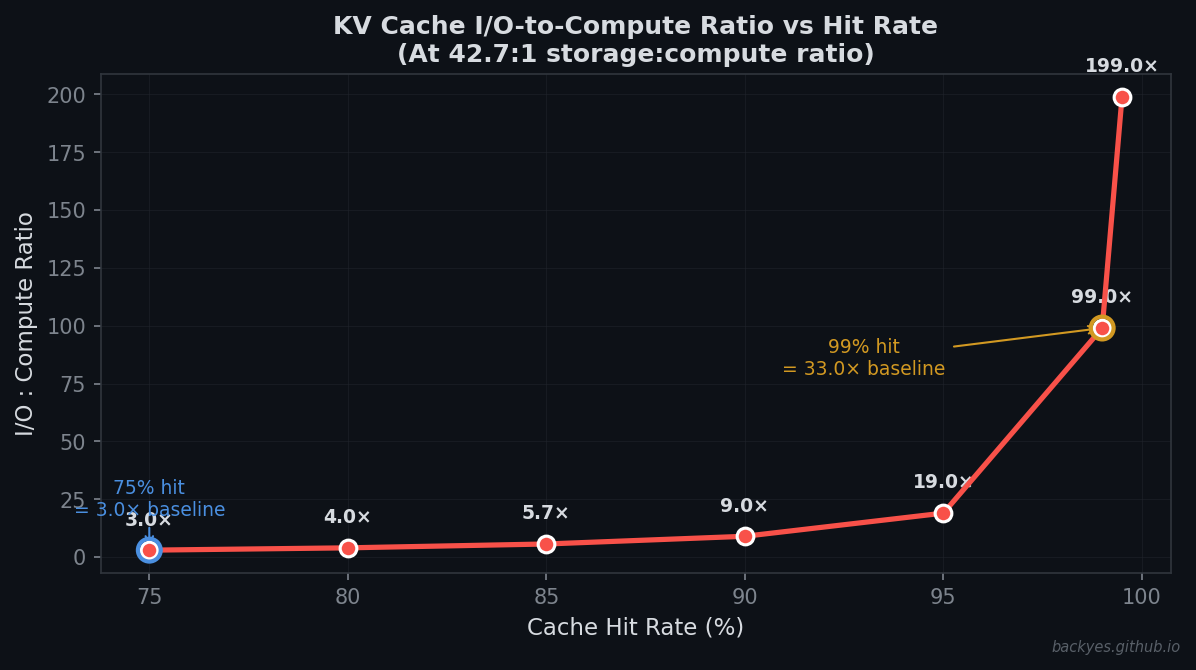
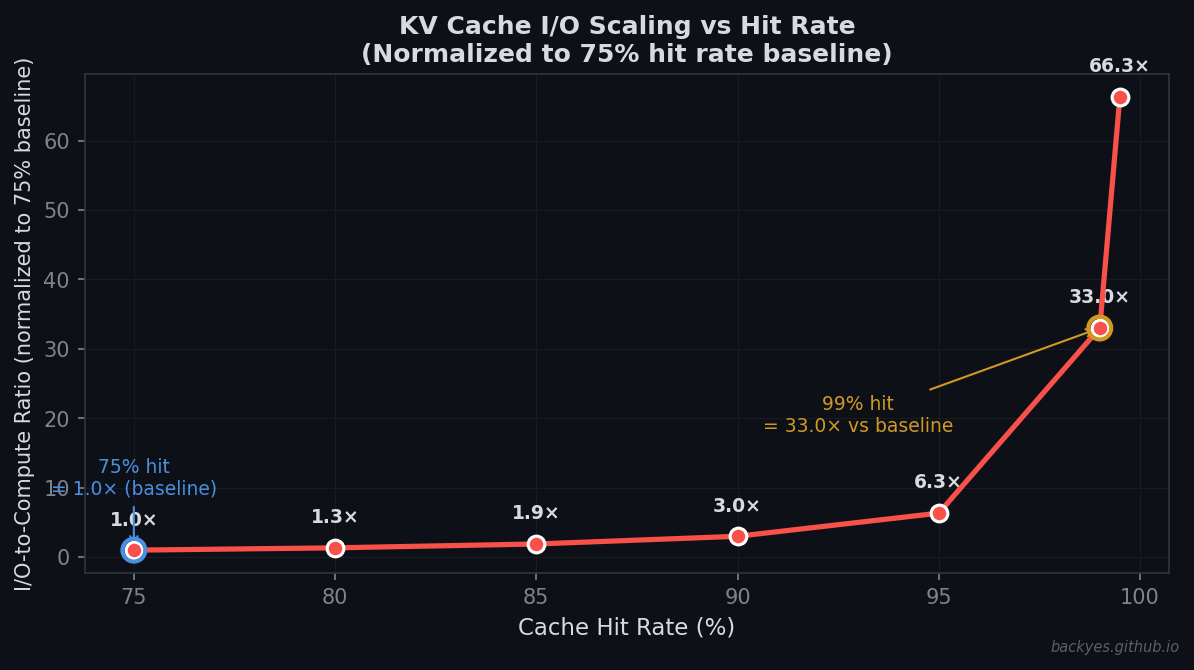
edit: chart normalized to 75% baseline

diff --git a/posts/google-rapid-storage-not-for-kvcache.html b/posts/google-rapid-storage-not-for-kvcache.html
@@ -25,8 +25,6 @@
 .article-body .hl-amber{background:rgba(210,153,34,.12);border-left:3px solid #d29922;padding:10px 16px;margin:1.2em 0;border-radius:0 6px 6px 0}
 .article-body .hl-green{background:rgba(63,185,80,.12);border-left:3px solid #3fb950;padding:10px 16px;margin:1.2em 0;border-radius:0 6px 6px 0}
 .article-body .hl-blue p,.article-body .hl-amber p,.article-body .hl-green p{margin:0}
-.article-body .hl-red{background:rgba(248,81,73,.12);border-left:3px solid #f85149;padding:10px 16px;margin:1.2em 0;border-radius:0 6px 6px 0}
-.article-body .hl-red p{margin:0}
 .article-body table{border-collapse:collapse;width:100%;margin:1.5em 0;font-size:.88em;display:block;overflow-x:auto}
 .article-body th{background:var(--surface);font-weight:600;padding:8px 10px;border:1px solid var(--border);text-align:left}
 .article-body td{padding:7px 10px;border:1px solid var(--border);vertical-align:top}
@@ -80,7 +78,7 @@
 <tr><td><strong>Local SSD (Tier 3)</strong></td><td>5 TiB</td><td>Largest, slowest node-local — total ~12M–13M tokens</td></tr>
 </tbody></table>
 <p><strong>Benchmark command:</strong></p>
-<blockquote class="hl-red"><p><code>python3 sglang/bench_serving.py --host=${IP} --port=${PORT} --dataset-name='generated-shared-prefix' --model=$MODEL --tokenizer=$MODEL --backend=vllm --gsp-num-groups=80 --gsp-prompts-per-group=20 --gsp-system-prompt-len=1000 --gsp-question-len=256 --gsp-output-len=512 --request-rate=800 --max-concurrency=200</code></p></blockquote>
+<blockquote><p><code>python3 sglang/bench_serving.py --host=${IP} --port=${PORT} --dataset-name='generated-shared-prefix' --model=$MODEL --tokenizer=$MODEL --backend=vllm --gsp-num-groups=80 --gsp-prompts-per-group=20 --gsp-system-prompt-len=1000 --gsp-question-len=256 --gsp-output-len=512 --request-rate=800 --max-concurrency=200></code></p></blockquote>
 <p><strong>Test 1: Cache fits in HBM (1.1M–1.3M tokens).</strong> Adding slower storage tiers offered no advantage. HBM-only is optimal.</p>
 <p><strong>Test 2: Cache exceeds HBM (4.0M–4.3M tokens).</strong></p>
 <img src="https://backyes.github.io/posts/assets/lmcache_test2.png" alt="LMCache Test 2 — TTFT, Throughput, Latency vs Context" style="max-width:100%;display:block;margin:1.5em auto">
@@ -105,7 +103,9 @@
 <tr><td>100K</td><td>HBM + CPU RAM + SSD</td><td>−3%</td><td>+130%</td><td>−57%</td></tr>
 </tbody></table>
 <p>Even with SSD spillover, 100K context still delivers <mark>+130%</mark> throughput. But TTFT degrades when cache exceeds comfortable capacity — signaling the practical limit of node-local approaches.</p>
-<blockquote class="hl-red"><p><strong>🔍 Open question: Why does TTFT degrade at 10K–50K but recover at 100K, while throughput keeps improving?</strong></p><p><strong>One hypothesis (worth discussing):</strong> At 10K–50K, the cache is in a "worst of both worlds" regime — too large for fast memory, too small to amortize SSD I/O costs. By 100K, the workload may reach a new steady state where massive cache hit rates and batch efficiency outweigh the SSD latency penalty. But this is speculation — the actual cause could be vLLM scheduling behavior, SSD read-ahead effects, or KV Cache eviction dynamics. The data raises the question; it doesn't answer it.</p></blockquote>
+<blockquote><p><strong>🔍 Open question: Why does TTTT degrade at 10K–50K but recover at 100K, while throughput keeps improving?</strong></p></blockquote>
+<blockquote><p></p></blockquote>
+<blockquote><p><strong>One hypothesis (worth discussing):</strong> At 10K–50K, the cache is in a "worst of both worlds" regime — too large for fast memory, too small to amortize SSD I/O costs. By 100K, the workload may reach a new steady state where massive cache hit rates and batch efficiency outweigh the SSD latency penalty. But this is speculation — the actual cause could be vLLM scheduling behavior, SSD read-ahead effects, or KV Cache eviction dynamics. The data raises the question; it doesn't answer it.</p></blockquote>
 <p><strong>Key insight:</strong> Tiered node-local storage works best when the cache fits within HBM + CPU RAM. SSD spillover still helps throughput but adds latency. The ceiling is node capacity.</p>
 <p><strong>Limitation:</strong> Node-local storage is fixed in size and cannot be shared across nodes. For multi-tenant or larger-than-node workloads, a different approach is needed.</p>
 <hr>
@@ -173,19 +173,19 @@
 <p>Both KV Cache approaches prove the same point: at 42.7:1 storage:compute ratio, the storage layer determines inference cost and performance.</p>
 <p>But Agentic AI is heading toward million-token contexts with <mark>90–99%</mark> cache hit rates. Every percentage point of hit rate improvement means more data to move relative to compute.</p>
 <img src="https://backyes.github.io/posts/assets/io_scaling_curve.png" alt="I/O-to-Compute Ratio vs Cache Hit Rate" style="max-width:100%;display:block;margin:1.5em auto">
-<blockquote><p><strong>I/O-to-Compute ratio at different hit rates (for every 100 tokens):</strong></p></blockquote>
-<blockquote><p>- <mark>75%</mark>: I/O:Compute = <mark>75:25</mark> = <mark>3.0×</mark> baseline</p></blockquote>
-<blockquote><p>- <mark>80%</mark>: I/O:Compute = <mark>80:20</mark> = <mark>4.0×</mark> (1.3× vs 75%)</p></blockquote>
-<blockquote><p>- <mark>85%</mark>: I/O:Compute = <mark>85:15</mark> = <mark>5.7×</mark> (1.9× vs 75%)</p></blockquote>
-<blockquote><p>- <mark>90%</mark>: I/O:Compute = <mark>90:10</mark> = <mark>9.0×</mark> (3.0× vs 75%)</p></blockquote>
-<blockquote><p>- <mark>95%</mark>: I/O:Compute = <mark>95:5</mark> = <mark>19.0×</mark> (6.3× vs 75%)</p></blockquote>
-<blockquote><p>- <mark>99%</mark>: I/O:Compute = <mark>99:1</mark> = <mark>99.0×</mark> (<mark>33×</mark> vs 75%)</p></blockquote>
-<blockquote><p>- <mark>99.5%</mark>: I/O:Compute = <mark>99.5:0.5</mark> = <mark>199.0×</mark> (<mark>66×</mark> vs 75%)</p></blockquote>
+<blockquote><p><strong>I/O-to-Compute ratio normalized to 75% baseline (for every 100 tokens):</strong></p></blockquote>
+<blockquote><p>- <mark>75%</mark>: I/O:Compute = <mark>75:25</mark> = <mark>3.0×</mark> → <mark>1.0×</mark> (baseline)</p></blockquote>
+<blockquote><p>- <mark>80%</mark>: I/O:Compute = <mark>80:20</mark> = <mark>4.0×</mark> → <mark>1.3×</mark> vs baseline</p></blockquote>
+<blockquote><p>- <mark>85%</mark>: I/O:Compute = <mark>85:15</mark> = <mark>5.7×</mark> → <mark>1.9×</mark> vs baseline</p></blockquote>
+<blockquote><p>- <mark>90%</mark>: I/O:Compute = <mark>90:10</mark> = <mark>9.0×</mark> → <mark>3.0×</mark> vs baseline</p></blockquote>
+<blockquote><p>- <mark>95%</mark>: I/O:Compute = <mark>95:5</mark> = <mark>19.0×</mark> → <mark>6.3×</mark> vs baseline</p></blockquote>
+<blockquote><p>- <mark>99%</mark>: I/O:Compute = <mark>99:1</mark> = <mark>99.0×</mark> → ==<mark>33×</mark> vs baseline==</p></blockquote>
+<blockquote><p>- <mark>99.5%</mark>: I/O:Compute = <mark>99.5:0.5</mark> = <mark>199.0×</mark> → ==<mark>66×</mark> vs baseline==</p></blockquote>
 <blockquote><p></p></blockquote>
 <blockquote><p>The relationship is <strong>non-linear</strong>. Moving from 75% to 99% hit rate increases the I/O-to-compute burden by <mark>33×</mark>. At 99.5%, it's <mark>66×</mark> the baseline. This is the fundamental scaling challenge: as hit rates approach 100%, I/O demand explodes while compute shrinks to near-zero.</p></blockquote>
 <p><strong>The open question: when KV Cache scales to millions of tokens, can Lustre keep up?</strong></p>
 <p>Google's Lustre solution delivers <mark>75%</mark> throughput improvement today at 50K context. But it runs on a shared RDMA fabric with per-VM bandwidth of ==18 TiB × 1000 MB/s = 18 GB/s<mark> — shared across all tenants. At million-token scales with thousands of concurrent agents, the fabric becomes the contention point. Node-local tiered storage, meanwhile, hits a hard ceiling at node capacity (</mark>18 TiB== local SSD + 1 TiB CPU RAM + 640 GiB HBM).</p>
-<blockquote class="hl-red"><p><strong>Will Google also move toward on-node FLASH/NAND, following the TPU super-node path?</strong> As KV Cache grows to millions of tokens, even Lustre's shared RDMA fabric may not suffice. NVIDIA's ICMS already puts flash at the bus edge. Google's TPU strategy relies on massive on-package HBM — but as Agentic AI pushes context lengths further, will Google also adopt on-node FLASH/NAND tiers to complement Lustre? The answer may define the next era of AI storage architecture.</p></blockquote>
+<blockquote><p><strong>Will Google also move toward on-node FLASH/NAND, following the TPU super-node path?</strong> As KV Cache grows to millions of tokens, even Lustre's shared RDMA fabric may not suffice. NVIDIA's ICMS already puts flash at the bus edge. Google's TPU strategy relies on massive on-package HBM — but as Agentic AI pushes context lengths further, will Google also adopt on-node FLASH/NAND tiers to complement Lustre? The answer may define the next era of AI storage architecture.</p></blockquote>
 <hr>
 <h2>References</h2>
 <p>[1] <a href="https://backyes.github.io/posts/million-seq-storage-vs-compute.html" target="_blank" rel="noopener">backyes — The Million-Token Bill</a> — 42.7:1 storage:compute ratio, 77× cache hit cost difference</p>

diff --git a/posts/2026-07-22-google-rapid-storage-not-for-kvcache.md b/posts/2026-07-22-google-rapid-storage-not-for-kvcache.md
@@ -181,14 +181,14 @@ But Agentic AI is heading toward million-token contexts with ==90–99%== cache 
 
 ![I/O-to-Compute Ratio vs Cache Hit Rate](https://backyes.github.io/posts/assets/io_scaling_curve.png)
 
-> **I/O-to-Compute ratio at different hit rates (for every 100 tokens):**
-> - ==75%==: I/O:Compute = ==75:25== = ==3.0×== baseline
-> - ==80%==: I/O:Compute = ==80:20== = ==4.0×== (1.3× vs 75%)
-> - ==85%==: I/O:Compute = ==85:15== = ==5.7×== (1.9× vs 75%)
-> - ==90%==: I/O:Compute = ==90:10== = ==9.0×== (3.0× vs 75%)
-> - ==95%==: I/O:Compute = ==95:5== = ==19.0×== (6.3× vs 75%)
-> - ==99%==: I/O:Compute = ==99:1== = ==99.0×== (==33×== vs 75%)
-> - ==99.5%==: I/O:Compute = ==99.5:0.5== = ==199.0×== (==66×== vs 75%)
+> **I/O-to-Compute ratio normalized to 75% baseline (for every 100 tokens):**
+> - ==75%==: I/O:Compute = ==75:25== = ==3.0×== → ==1.0×== (baseline)
+> - ==80%==: I/O:Compute = ==80:20== = ==4.0×== → ==1.3×== vs baseline
+> - ==85%==: I/O:Compute = ==85:15== = ==5.7×== → ==1.9×== vs baseline
+> - ==90%==: I/O:Compute = ==90:10== = ==9.0×== → ==3.0×== vs baseline
+> - ==95%==: I/O:Compute = ==95:5== = ==19.0×== → ==6.3×== vs baseline
+> - ==99%==: I/O:Compute = ==99:1== = ==99.0×== → ====33×== vs baseline==
+> - ==99.5%==: I/O:Compute = ==99.5:0.5== = ==199.0×== → ====66×== vs baseline==
 >
 > The relationship is **non-linear**. Moving from 75% to 99% hit rate increases the I/O-to-compute burden by ==33×==. At 99.5%, it's ==66×== the baseline. This is the fundamental scaling challenge: as hit rates approach 100%, I/O demand explodes while compute shrinks to near-zero.
 